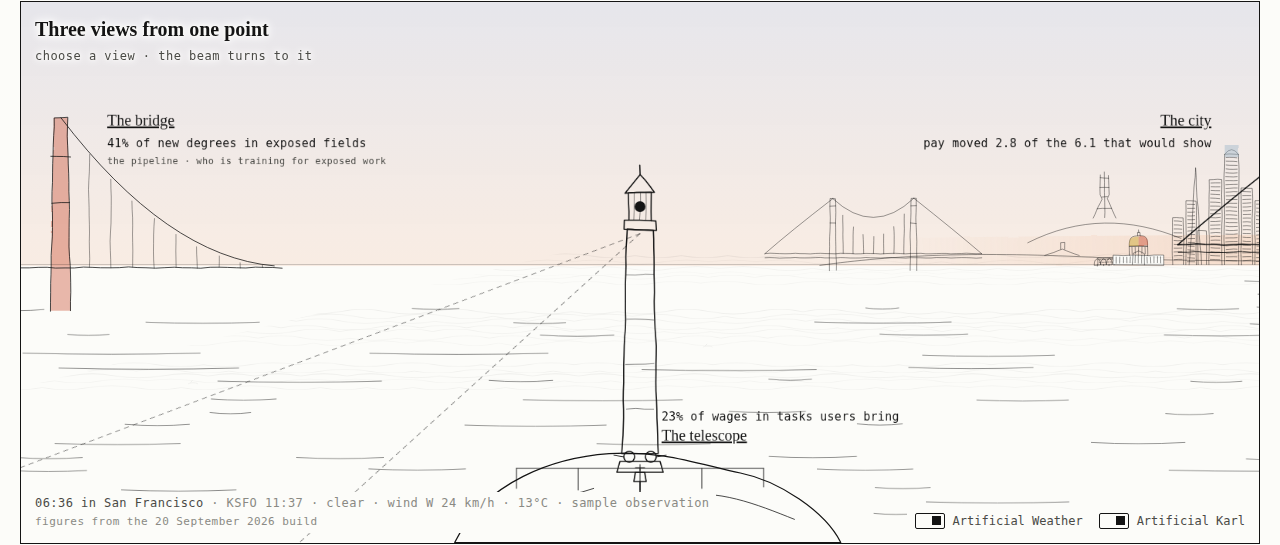
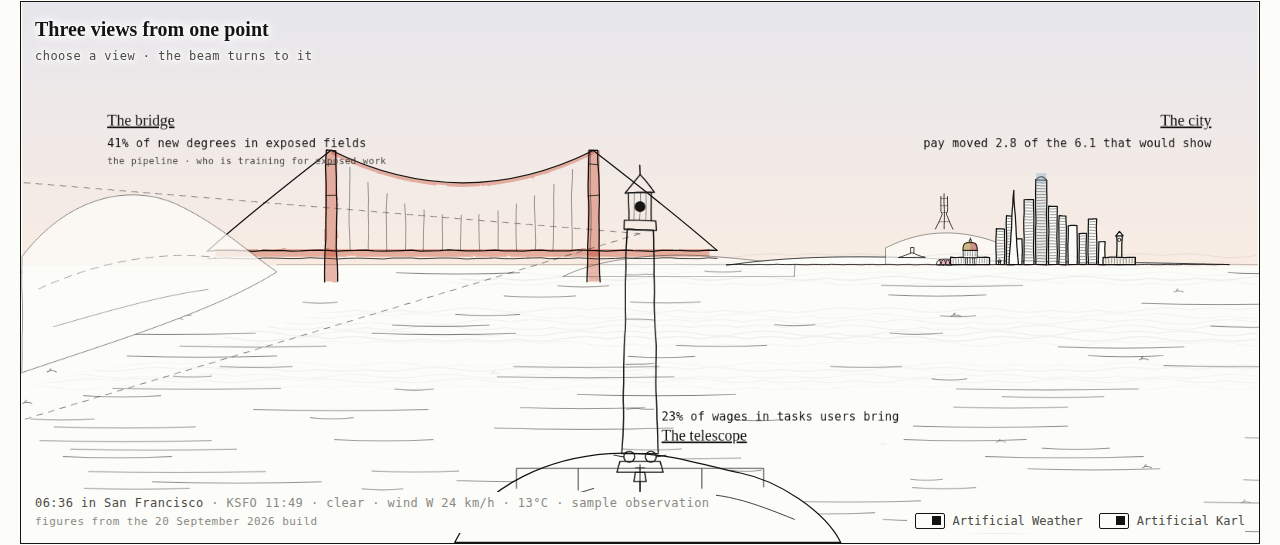
Front page: one scene from the point, turning to a view scales it about that place, the lighthouse fixed at the base, the ink at one weight at any zoom, hills and buildings filled in front of the sky, one Gate, no dawn band

diff --git a/docs/mockup/index.html b/docs/mockup/index.html
@@ -41,12 +41,17 @@ header.top{display:flex;align-items:baseline;justify-content:space-between;gap:1
 /* Each layer is its own drawing surface, so the line work with its filters is painted once and only the
    water, the fog and the sky repaint; turning to a view moves the surfaces, which repaints nothing. */
 .stage>svg{position:absolute;inset:0;width:100%;height:100%;overflow:visible;will-change:transform;pointer-events:none}
-.stage>svg.pan{transform-origin:50% 25%;transition:transform 1.4s cubic-bezier(.6,0,.2,1),opacity .8s}
-.stage>svg.fg{transform-origin:50% 100%;transition:transform 1.4s cubic-bezier(.6,0,.2,1)}
+.stage>svg.pan{transition:opacity .8s}
+/* Turning to a view is a scale of the one drawing about that place, on a group inside each surface, so the
+   ink keeps its weight: strokes are set in screen pixels and do not thicken with the zoom. */
+.zoom{transform-box:view-box;transform-origin:0 0;transition:transform 1.4s cubic-bezier(.6,0,.2,1)}
+.scene path,.scene circle,.scene rect{vector-effect:non-scaling-stroke}
+.vig .scene path{vector-effect:none}
 .stage[data-view="valley"]>svg.pan:not(#L-sky){opacity:0}
-.scene{stroke:var(--ink);fill:none;stroke-width:1.6;stroke-linecap:round;stroke-linejoin:round}
-.scene .thin{stroke-width:1}
-.scene .hair{stroke-width:.7;opacity:.75}
+.scene{stroke:var(--ink);fill:none;stroke-width:1.25px;stroke-linecap:round;stroke-linejoin:round}
+.scene .thin{stroke-width:.8px}
+.scene .hair{stroke-width:.55px;opacity:.75}
+.vig .scene{stroke-width:1.6}.vig .scene .thin{stroke-width:1}.vig .scene .hair{stroke-width:.7}
 .scene .solid{fill:var(--ink);stroke:none}
 .scene text{font-family:var(--mono);font-size:12px;fill:var(--ink-2);stroke:none;letter-spacing:.04em}
 .scene .cap{font-family:var(--display);font-size:20px;fill:var(--ink);letter-spacing:0}
@@ -174,7 +179,7 @@ header.top{display:flex;align-items:baseline;justify-content:space-between;gap:1
 .src b{color:var(--ink);font-weight:500}
 .coin .close{margin-top:12px;font-family:var(--mono);font-size:12px;background:transparent;border:1px solid var(--ink);color:var(--ink);padding:5px 12px;cursor:pointer}
 
-@media (prefers-reduced-motion: reduce){.fogline,.cloud,.rain,.water,.crest,.crownblock{animation:none}.stage>svg,.viewer,.beam,.mask-in{transition:none}}
+@media (prefers-reduced-motion: reduce){.fogline,.cloud,.rain,.water,.crest,.crownblock{animation:none}.stage>svg,.zoom,.viewer,.beam,.mask-in{transition:none}}
 @media (max-width:820px){
   /* On a phone the drawing is a picture and the figures beneath it are the way in: the labels in the
      drawing go, the filters go, and the three views become three cards to tap. */
@@ -195,7 +200,7 @@ header.top{display:flex;align-items:baseline;justify-content:space-between;gap:1
 
   <div class="frame">
   <div class="stage" id="stage" data-view="home" data-aw="on" data-ak="on">
-    <svg class="pan" id="L-sky" viewBox="0 0 1600 700" aria-hidden="true" style="transform:translateX(-100%) scale(1)">
+    <svg class="pan" id="L-sky" viewBox="0 0 1600 700" aria-hidden="true">
       <defs>
         <filter id="wc" x="-10%" y="-10%" width="120%" height="120%">
           <feTurbulence type="fractalNoise" baseFrequency="0.06" numOctaves="2" seed="3" result="n"/>
@@ -204,22 +209,20 @@ header.top{display:flex;align-items:baseline;justify-content:space-between;gap:1
         </filter>
         <filter id="glow" x="-100%" y="-100%" width="300%" height="300%"><feGaussianBlur stdDeviation="6"/></filter>
         <linearGradient id="skygrad" x1="0" y1="0" x2="0" y2="1"><stop id="sky-top" offset="0" stop-color="#BFD3E6" stop-opacity="0"/><stop id="sky-low" offset="1" stop-color="#F2B48C" stop-opacity="0"/></linearGradient>
-        <mask id="fogmask"><rect x="0" y="0" width="4800" height="700" fill="white"/><polygon id="cone" points="0,0" fill="black"/></mask>
-        <linearGradient id="dawngrad" x1="0" y1="0" x2="1" y2="0"><stop offset="0" stop-color="#F2B48C" stop-opacity="0"/><stop id="dawn-mid" offset=".5" stop-color="#F2B48C"/><stop offset="1" stop-color="#F2B48C" stop-opacity="0"/></linearGradient>
-        <mask id="binoc-pan"><rect x="0" y="0" width="4800" height="700" fill="black"/><circle cx="2300" cy="290" r="210" fill="white"/><circle cx="2500" cy="290" r="210" fill="white"/></mask>
+        <mask id="fogmask"><rect x="0" y="0" width="1600" height="700" fill="white"/><polygon id="cone" points="0,0" fill="black"/></mask>
         <mask id="binoc"><rect x="0" y="0" width="1600" height="700" fill="black"/><circle cx="700" cy="290" r="210" fill="white"/><circle cx="900" cy="290" r="210" fill="white"/></mask>
       </defs>
-      <g id="skyall"><rect class="skywash" x="0" y="0" width="4800" height="342" fill="url(#skygrad)"/>
-      <g id="sky" class="scene sky thin"></g></g>
+      <g class="zoom"><g id="skyall"><rect class="skywash" x="0" y="0" width="1600" height="342" fill="url(#skygrad)"/>
+      <g id="sky" class="scene sky thin"></g></g></g>
     </svg>
-    <!-- ================= the panorama: bridge | point | city, painted once ================= -->
-    <svg class="pan" id="L-static" viewBox="0 0 1600 700" aria-hidden="true" style="transform:translateX(-100%) scale(1)"><g class="scene"><g id="washes"></g><g id="far"></g></g></svg>
-    <svg class="pan" id="L-lights" viewBox="0 0 1600 700" aria-hidden="true" style="transform:translateX(-100%) scale(1)"><g id="lights" class="scene"></g></svg>
-    <svg class="pan" id="L-water" viewBox="0 0 1600 700" aria-hidden="true" style="transform:translateX(-100%) scale(1)"><g class="scene"><g id="water" class="hair"></g><g id="fog" class="fog" mask="url(#fogmask)"></g></g></svg>
+    <!-- ================= the one scene from the point, painted once; the colour lies over the ink ================= -->
+    <svg class="pan" id="L-static" viewBox="0 0 1600 700" aria-hidden="true"><g class="zoom scene"><g id="far"></g><g id="washes"></g></g></svg>
+    <svg class="pan" id="L-lights" viewBox="0 0 1600 700" aria-hidden="true"><g class="zoom"><g id="lights" class="scene"></g></g></svg>
+    <svg class="pan" id="L-water" viewBox="0 0 1600 700" aria-hidden="true"><g class="zoom scene"><g id="water" class="hair"></g><g id="fog" class="fog" mask="url(#fogmask)"></g></g></svg>
     <!-- foreground: the point, the lighthouse, the railing, the viewer at rest -->
     <svg id="L-life" viewBox="0 0 1600 700" aria-hidden="true"><g id="life" class="life scene"></g></svg>
     <svg class="fg" id="L-fg" viewBox="0 0 1600 700" role="group" aria-label="An ink drawing of a lighthouse on a headland. Turn to the city or the bridge, or raise the coin telescope to look at the valley.">
-      <g id="fg" class="scene">
+      <g class="zoom" id="fgzoom"><g id="fg" class="scene">
         <path d="M560 700 C 600 620, 690 590, 760 585 C 830 580, 880 600, 930 610 C 980 620, 1040 660, 1060 700 Z" style="fill:var(--paper)"/>
         <path d="M600 660 C 650 640, 700 645, 740 630 M850 640 C 900 630, 950 650, 1000 670" class="thin"/>
         <g class="beam" id="beam" style="--bx:800px;--by:300px"><path d="M800 300 L 3200 -156 M800 300 L 3200 756" class="hair" stroke-dasharray="6 6"/></g>
@@ -244,7 +247,7 @@ header.top{display:flex;align-items:baseline;justify-content:space-between;gap:1
           <text x="110" y="188" class="mark" id="mark-bridge"></text>
           <g class="detail"><text x="110" y="210">the pipeline · who is training for exposed work</text></g>
         </g>
-      </g>
+      </g></g>
     </svg>
 
     <!-- ================= the valley, through the viewer ================= -->
@@ -317,8 +320,8 @@ header.top{display:flex;align-items:baseline;justify-content:space-between;gap:1
   const NS = "http://www.w3.org/2000/svg";
   const el = (tag, attrs={}, parent) => { const n = document.createElementNS(NS, tag); for (const k in attrs) n.setAttribute(k, attrs[k]); if (parent) parent.appendChild(n); return n; };
   function rng(seed){ let s = seed; return () => (s = (s * 16807) % 2147483647) / 2147483647; }
-  const W = 4800, HOME = 1600;            // panorama width; the point sits in the middle third
-  const CH = 780, HYD = 1150;             // in the city third: City Hall's x, and the hydrant's on the shore
+  const W = 1600;                         // the frame is the scene: the view from the point
+  const CH = 780, HYD = 870;              // in the city's own units: City Hall's x, and the hydrant's on the shore
 
   /* ---------- line work ---------- */
   function water(g, x0, x1, y0, y1, seed, dens){
@@ -357,7 +360,7 @@ header.top{display:flex;align-items:baseline;justify-content:space-between;gap:1
     el("path", {d:`M${x2} ${deckY-towerH} Q ${x2+100} ${deckY-towerH*0.4} ${x2+160} ${deckY}`}, g);
     for (let x=x1+24; x<x2; x+=24){ const t=(x-x1)/(x2-x1); const yc = deckY-towerH + sag*(1-(2*t-1)**2); el("path", {d:`M${x} ${yc} L ${x} ${deckY}`, class:"hair"}, g); }
   }
-  function box(g, x, y, w, h, win){ el("path", {d:`M${x} ${y+h} L ${x} ${y} L ${x+w} ${y} L ${x+w} ${y+h}`}, g); if (win) for (let yy=y+8; yy<y+h-4; yy+=9) el("path", {d:`M${x+4} ${yy} L ${x+w-4} ${yy}`, class:"hair"}, g); }
+  function box(g, x, y, w, h, win){ el("path", {d:`M${x} ${y+h} L ${x} ${y} L ${x+w} ${y} L ${x+w} ${y+h} Z`, style:"fill:var(--paper)"}, g); if (win) for (let yy=y+8; yy<y+h-4; yy+=9) el("path", {d:`M${x+4} ${yy} L ${x+w-4} ${yy}`, class:"hair"}, g); }
   function blob(g, x, y, w, h, color, seed){ const r = rng(seed); let d = `M${x} ${y+h/2}`; const n=7; for (let i=1;i<=n;i++){ const a = i/n*2*Math.PI; d += ` Q ${x+w/2+Math.cos(a-0.4)*w*0.6*(0.8+r()*0.4)} ${y+h/2+Math.sin(a-0.4)*h*0.6*(0.8+r()*0.4)} ${x+w/2+Math.cos(a)*w/2} ${y+h/2+Math.sin(a)*h/2}`; } return el("path", {d, class:"wc", style:`fill:${color}`}, g); }
   function tint(g, d, color, seed=1){ return el("path", {d, class:"wc", style:`fill:${color}`}, g); }
   function tintRect(g, x, y, w, h, color){ return tint(g, `M${x} ${y} h ${w} v ${h} h ${-w} Z`, color); }
@@ -368,9 +371,9 @@ header.top{display:flex;align-items:baseline;justify-content:space-between;gap:1
     el("path", {d:`M ${x-60} ${gy} L ${x-60} ${gy-22} L ${x+60} ${gy-22} L ${x+60} ${gy} Z`, style:"fill:var(--paper)"}, g);
     for (let c=x-52; c<=x+52; c+=8) if (Math.abs(c-x) > 16) el("path", {d:`M${c} ${gy-4} L ${c} ${gy-18}`, class:"hair"}, g);
     el("path", {d:`M ${x-14} ${gy} L ${x-14} ${gy-26} L ${x} ${gy-32} L ${x+14} ${gy-26} L ${x+14} ${gy} M ${x-8} ${gy-4} L ${x-8} ${gy-22} M ${x} ${gy-4} L ${x} ${gy-24} M ${x+8} ${gy-4} L ${x+8} ${gy-22}`, class:"thin"}, g);
-    el("path", {d:`M ${x-22} ${gy-22} L ${x-22} ${gy-44} L ${x+22} ${gy-44} L ${x+22} ${gy-22}`, class:"thin"}, g);
+    el("path", {d:`M ${x-22} ${gy-22} L ${x-22} ${gy-44} L ${x+22} ${gy-44} L ${x+22} ${gy-22} Z`, class:"thin", style:"fill:var(--paper)"}, g);
     for (let c=x-16; c<=x+16; c+=8) el("path", {d:`M${c} ${gy-26} L ${c} ${gy-41}`, class:"hair"}, g);
-    el("path", {d:domePath(x, gy-44, 44, 24)}, g);
+    el("path", {d:domePath(x, gy-44, 44, 24), style:"fill:var(--paper)"}, g);
     el("path", {d:`M ${x-3} ${gy-68} L ${x-3} ${gy-76} L ${x+3} ${gy-76} L ${x+3} ${gy-68} M ${x} ${gy-76} L ${x} ${gy-82}`, class:"thin"}, g);
   }
   function dome(g, x, baseY, w, cls){ el("path", {d:`M ${x-w/2} ${baseY} L ${x-w/2} ${baseY-20} L ${x+w/2} ${baseY-20} L ${x+w/2} ${baseY}`, class:cls}, g); el("path", {d:`M ${x-w*0.33} ${baseY-20} C ${x-w*0.33} ${baseY-20-w*0.6}, ${x+w*0.33} ${baseY-20-w*0.6}, ${x+w*0.33} ${baseY-20} M ${x-4} ${baseY-20-w*0.46} L ${x+4} ${baseY-20-w*0.46} L ${x} ${baseY-20-w*0.62} Z`, class:cls}, g); }
@@ -407,83 +410,82 @@ header.top{display:flex;align-items:baseline;justify-content:space-between;gap:1
     });
   }
 
-  /* ---------- the three thirds ---------- */
+  /* ---------- one scene, from the point ----------
+     The frame is the view from Point Bonita: the Marin headland close on the left, the Gate across the
+     middle distance, the city small on the horizon to the right, the bay below. Turning to a view scales
+     this one drawing about that place, so what you were looking at grows and nothing new arrives. The
+     lighthouse in front is fixed, and shrinks to the base of the frame when the view has turned. */
+  // c is the point of the scene brought to the middle of the frame (800, 300); s is how far the view leans in
+  const ZOOM = { home:{c:[800,300], s:1}, city:{c:[1177,300], s:2.4}, bridge:{c:[570,290], s:2.2}, valley:{c:[800,300], s:1} };
+  const toScreen = (view, x, y) => { const {c, s} = ZOOM[view]; return [800 + s*(x-c[0]), 300 + s*(y-c[1])]; };
+  const toScene  = (view, x, y) => { const {c, s} = ZOOM[view]; return [c[0] + (x-800)/s, c[1] + (y-300)/s]; };
   const far = $("#far"), washes = $("#washes"), waterG = $("#water"), fogG = $("#fog");
-  el("path", {d:`M 0 340 L ${HOME*2+30} 340`, class:"hair"}, waterG);   // the horizon, up to where the city stands on it
+
+  // the bay: the horizon from the headland to the city, and the water below it
+  el("path", {d:`M 330 340 L ${W} 340`, class:"hair"}, waterG);
   const waterA = el("g", {class:"water"}, waterG), waterB = el("g", {class:"water b"}, waterG), waterC = el("g", {class:"water c"}, waterG);
-  water(waterA, 0, W, 400, 690, 3, 58); water(waterB, 0, W, 416, 690, 4, 58); water(waterC, 0, W, 432, 690, 8, 58);
-  // crests: short marks that surface and go, out of step with each other
-  (function crests(){ const r = rng(19); for (let i=0;i<14;i++){ const x = r()*W, y = 380 + r()*300; const c = el("path", {d:`M${x} ${y} q 6 -3 12 0 M${x+3} ${y-2} l 2 -2`, class:"crest thin"}, waterG); c.style.animationDelay = (-r()*4).toFixed(2) + "s"; c.style.animationDuration = (3 + r()*3).toFixed(2) + "s"; } })();
+  water(waterA, 0, W, 352, 690, 3, 40); water(waterB, 0, W, 366, 690, 4, 40); water(waterC, 0, W, 380, 690, 8, 40);
+  (function crests(){ const r = rng(19); for (let i=0;i<12;i++){ const x = r()*W, y = 360 + r()*320; const c = el("path", {d:`M${x} ${y} q 6 -3 12 0 M${x+3} ${y-2} l 2 -2`, class:"crest thin"}, waterG); c.style.animationDelay = (-r()*4).toFixed(2) + "s"; c.style.animationDuration = (3 + r()*3).toFixed(2) + "s"; } })();
+  // the Marin headland, near, drawn over the water so the bay ends at its foot; the road out to the point on it
+  const headland = el("g", {}, waterG);
+  el("path", {d:"M 0 480 L 0 330 C 60 250, 140 235, 200 262 C 260 290, 300 330, 330 350 C 250 400, 120 440, 0 480 Z", style:"fill:var(--paper)"}, headland);
+  el("path", {d:"M 20 372 C 90 340, 170 322, 250 330", class:"hair", "stroke-dasharray":"8 6"}, headland);
+  el("path", {d:"M 40 420 C 110 400, 180 380, 240 372", class:"hair"}, headland);
   fog(fogG, [[330, 5, 6],[400, 6, 7],[470, 5, 5]], 11);
 
-  // left third: the bridge, looking back along the headlands (x 0..1600)
-  (function bridge(g, ox, baseY){
-    el("path", {d:`M ${ox} ${baseY+80} C ${ox+120} ${baseY-40}, ${ox+260} ${baseY-90}, ${ox+420} ${baseY-60} C ${ox+520} ${baseY-40}, ${ox+600} ${baseY+20}, ${ox+700} ${baseY+140}`}, g);
-    el("path", {d:`M ${ox+30} ${baseY+60} C ${ox+140} ${baseY+10}, ${ox+300} ${baseY}, ${ox+470} ${baseY+40} C ${ox+560} ${baseY+60}, ${ox+620} ${baseY+110}, ${ox+660} ${baseY+150}`, class:"hair", "stroke-dasharray":"8 6"}, g);
-    suspension(g, ox+620, ox+1000, baseY-20, 230, 150);
-    tintRect(washes, ox+460, baseY-22, 700, 12, "var(--orange)");            // the deck
-    tintRect(washes, ox+612, baseY-250, 16, 290, "var(--orange)");            // the towers
-    tintRect(washes, ox+992, baseY-250, 16, 290, "var(--orange)");
-    tint(washes, `M ${ox+620} ${baseY-250} Q ${ox+810} ${baseY-100} ${ox+1000} ${baseY-250} l 0 5 Q ${ox+810} ${baseY-95} ${ox+620} ${baseY-245} Z`, "var(--orange)");  // the cable
-    el("path", {d:`M ${ox+1000} ${baseY-40} C ${ox+1150} ${baseY-90}, ${ox+1350} ${baseY-80}, ${ox+1600} ${baseY-30}`, class:"thin"}, g);
-    for (const [x,y,s] of [[ox+1180, baseY+90, 1],[ox+1000, baseY+160, 1.3],[ox+880, baseY+220, .8]]){ el("path", {d:`M${x} ${y} l ${-30*s} 0 l ${6*s} ${10*s} l ${48*s} 0 l ${6*s} ${-10*s} z M${x-14*s} ${y} l 0 ${-10*s} l ${22*s} 0 l 0 ${10*s} M${x-4*s} ${y-10*s} l 0 ${-9*s}`, class:"thin"}, g); }
-  })(far, 0, 330);
+  // the Presidio's low shore at the Gate's south end, running on to the city
+  el("path", {d:"M 700 356 C 740 334, 820 322, 900 330 C 940 334, 980 338, 1000 340 L 1000 356 Z", style:"fill:var(--paper)", class:"hair"}, far);
+  // the Gate, across the middle distance
+  suspension(far, 400, 740, 322, 130, 85);
+  tintRect(washes, 250, 320, 640, 10, "var(--orange)");                                              // the deck
+  tintRect(washes, 392, 192, 16, 170, "var(--orange)"); tintRect(washes, 732, 192, 16, 170, "var(--orange)");   // the towers
+  tint(washes, "M 400 192 Q 570 277 740 192 l 0 5 Q 570 282 400 197 Z", "var(--orange)");            // the cable
 
-  // middle third: the far city as seen from the point (x 1600..3200), faint
-  (function farCity(g, ox){
-    const s = el("g", {transform:`translate(${ox+1020},207) scale(.55)`, class:"thin"}, g);
-    skyline(s, 250, false); s.querySelectorAll("path").forEach(p=>{ p.classList.remove("hair"); p.classList.add("thin"); });
-    // the Gate's near tower and the fall of its cable, at the left edge of the point's view
-    el("path", {d:`M ${ox+40} 400 L ${ox+44} 150 L ${ox+62} 150 L ${ox+66} 400 M ${ox+40} 200 L ${ox+66} 200 M ${ox+42} 260 L ${ox+64} 260`, class:"thin"}, g);
-    el("path", {d:`M ${ox+53} 150 Q ${ox+190} 330 ${ox+330} 342 M ${ox+0} 344 L ${ox+340} 344`, class:"thin"}, g);
-    for (let x=ox+90; x<ox+320; x+=28){ const t=(x-ox-53)/277; el("path", {d:`M${x} ${150 + 192*(1-(1-t)**2)} L ${x} 344`, class:"hair"}, g); }
-    tint(washes, `M ${ox+44} 150 L ${ox+62} 150 L ${ox+66} 400 L ${ox+40} 400 Z`, "var(--orange)");
-  })(far, HOME);
+  // the city, small on the horizon, drawn once at the size it has from here; turning to it scales this
+  const CITY = { x:900, y:340, k:0.42 };
+  const cityTransform = `translate(${CITY.x},${CITY.y}) scale(${CITY.k})`;
+  const cityG = el("g", {transform:cityTransform}, far), cityW = el("g", {transform:cityTransform}, washes);
 
-  // right third: the city, looking east (x 3200..4800)
-  function skyline(g, baseY, colour, ox=0){
-    el("path", {d:`M ${ox+30} ${baseY-6} C ${ox+200} ${baseY-30}, ${ox+400} ${baseY-40}, ${ox+700} ${baseY-24} C ${ox+900} ${baseY-14}, ${ox+1100} ${baseY-20}, ${ox+1580} ${baseY-8}`, class:"thin"}, g);
-    el("path", {d:`M ${ox+520} ${baseY-60} C ${ox+640} ${baseY-120}, ${ox+760} ${baseY-118}, ${ox+880} ${baseY-70}`, class:"hair"}, g);
+  function skyline(g, w, baseY, colour, ox=0){
+    // the hills behind the city, filled, so the sky stays behind them
+    el("path", {d:`M ${ox+30} ${baseY-6} C ${ox+200} ${baseY-30}, ${ox+400} ${baseY-40}, ${ox+700} ${baseY-24} C ${ox+900} ${baseY-14}, ${ox+1100} ${baseY-20}, ${ox+1580} ${baseY-8} L ${ox+30} ${baseY-8} Z`, class:"thin", style:"fill:var(--paper)"}, g);
+    el("path", {d:`M ${ox+520} ${baseY-60} C ${ox+640} ${baseY-120}, ${ox+760} ${baseY-118}, ${ox+880} ${baseY-70} L ${ox+880} ${baseY-8} L ${ox+520} ${baseY-8} Z`, class:"hair", style:"fill:var(--paper)"}, g);
     const sx = ox+700, sy = baseY-118;
     // Sutro: three masts, the outer pair upright at the top, pinched to a waist, splayed to the feet, tied by struts
     const H = 100;
     el("path", {d:`M${sx-10} ${sy-H} L ${sx-10} ${sy-H*0.55} L ${sx-6} ${sy-H*0.45} L ${sx-27} ${sy} M${sx} ${sy-H-8} L ${sx} ${sy} M${sx+10} ${sy-H} L ${sx+10} ${sy-H*0.55} L ${sx+6} ${sy-H*0.45} L ${sx+27} ${sy}`, class:"thin"}, g);
     for (const [f, hw] of [[0.94, 10], [0.72, 10], [0.5, 6], [0.22, 17]]) el("path", {d:`M${sx-hw} ${sy-H*f} L ${sx+hw} ${sy-H*f}`, class:"hair"}, g);
-    suspension(g, ox+60, ox+250, baseY-34, 130, 90);
-    el("path", {d:`M ${ox+560} ${baseY-30} L ${ox+600} ${baseY-44} L ${ox+640} ${baseY-30} M ${ox+596} ${baseY-44} L ${ox+596} ${baseY-60} L ${ox+606} ${baseY-60} L ${ox+606} ${baseY-44}`, class:"thin"}, g);
+    el("path", {d:`M ${ox+560} ${baseY-30} L ${ox+600} ${baseY-44} L ${ox+640} ${baseY-30} Z M ${ox+596} ${baseY-44} L ${ox+596} ${baseY-60} L ${ox+606} ${baseY-60} L ${ox+606} ${baseY-44}`, class:"thin", style:"fill:var(--paper)"}, g);
     const towers = [[860,110,26,1],[892,150,24,1],[920,80,20,0],[946,200,30,1],[982,260,34,1],[1022,180,26,1],[1054,150,22,1],[1082,120,28,0],[1116,96,22,1],[1144,140,26,1],[1176,70,20,0]];
-    for (const [x,h,w,win] of towers) box(g, ox+x, baseY-h-8, w, h, win);
-    el("path", {d:`M ${ox+900} ${baseY-8} L ${ox+914} ${baseY-236} L ${ox+928} ${baseY-8}`}, g);
+    for (const [x,h,w_,win] of towers) box(g, ox+x, baseY-h-8, w_, h, win);
+    el("path", {d:`M ${ox+900} ${baseY-8} L ${ox+914} ${baseY-236} L ${ox+928} ${baseY-8} Z`, style:"fill:var(--paper)"}, g);
     el("path", {d:`M ${ox+982} ${baseY-268} Q ${ox+999} ${baseY-290} ${ox+1016} ${baseY-268}`}, g);
-    // City Hall, and Hayes Valley just west of it: Patricia's Green with its trees, and the red house over the green
-    // City Hall and Hayes Valley sit west of the towers, under Sutro, on the shore's register: the dome, the green with its trees, and the red house over the green
+    // City Hall and Hayes Valley west of the towers, under Sutro: the house a little behind, the trees in front of it
     const hv = ox+CH, gy = baseY-8;
-    // the house over the green: two storeys, six windows across, a little behind City Hall, with the trees in front of it
-    el("path", {d:`M ${hv-96} ${gy} L ${hv-96} ${gy-16} L ${hv-56} ${gy-16} L ${hv-56} ${gy}`, class:"thin"}, g);
+    el("path", {d:`M ${hv-96} ${gy} L ${hv-96} ${gy-16} L ${hv-56} ${gy-16} L ${hv-56} ${gy} Z`, class:"thin", style:"fill:var(--paper)"}, g);
     for (let r=0; r<2; r++) for (let c=0; c<6; c++) el("path", {d:`M${hv-93+c*6.4} ${gy-12+r*6.5} l 3.4 0`, class:"hair"}, g);
     cityhall(g, hv, gy);
-    for (const x of [hv-104, hv-90, hv-76]) el("path", {d:`M${x} ${gy} q 0 -12 7 -14 q 7 2 7 14 z M${x+7} ${gy} l 0 3`, class:"thin"}, g);
-    // the hydrant on the Embarcadero, past the Ferry Building, where the robotaxi meets it
+    for (const x of [hv-104, hv-90, hv-76]) el("path", {d:`M${x} ${gy} q 0 -12 7 -14 q 7 2 7 14 z M${x+7} ${gy} l 0 3`, class:"thin", style:"fill:var(--paper)"}, g);
+    // the hydrant on the Embarcadero, in front of the towers, where the robotaxi meets it
     el("path", {d:`M ${ox+HYD-3} ${gy} L ${ox+HYD-3} ${gy-14} Q ${ox+HYD} ${gy-18} ${ox+HYD+3} ${gy-14} L ${ox+HYD+3} ${gy} M ${ox+HYD-6} ${gy-9} L ${ox+HYD+6} ${gy-9} M ${ox+HYD-3} ${gy-5} L ${ox+HYD+3} ${gy-5}`, class:"thin"}, g);
     // Ferry Building on the waterfront
-    el("path", {d:`M ${ox+1190} ${baseY-8} L ${ox+1190} ${baseY-30} L ${ox+1290} ${baseY-30} L ${ox+1290} ${baseY-8}`}, g);
+    el("path", {d:`M ${ox+1190} ${baseY-8} L ${ox+1190} ${baseY-30} L ${ox+1290} ${baseY-30} L ${ox+1290} ${baseY-8} Z`, style:"fill:var(--paper)"}, g);
     for (let x=ox+1198; x<ox+1290; x+=9) el("path", {d:`M${x} ${baseY-26} L ${x} ${baseY-12}`, class:"hair"}, g);
-    el("path", {d:`M ${ox+1232} ${baseY-30} L ${ox+1232} ${baseY-96} L ${ox+1248} ${baseY-96} L ${ox+1248} ${baseY-30} M ${ox+1229} ${baseY-96} L ${ox+1251} ${baseY-96} L ${ox+1240} ${baseY-110} Z`}, g);
+    el("path", {d:`M ${ox+1232} ${baseY-30} L ${ox+1232} ${baseY-96} L ${ox+1248} ${baseY-96} L ${ox+1248} ${baseY-30} Z M ${ox+1229} ${baseY-96} L ${ox+1251} ${baseY-96} L ${ox+1240} ${baseY-110} Z`, style:"fill:var(--paper)"}, g);
     el("circle", {cx:ox+1240, cy:baseY-84, r:5, class:"thin"}, g);
     if (colour){
-      tint(washes, domePath(hv, gy-44, 44, 24), "var(--glass)").style.opacity = ".3";                               // the dome, grey-blue
-      tintRect(washes, hv-95, gy-15, 38, 15, "var(--rose)");                                                        // the house over the green
-      tintRect(washes, ox+1191, baseY-29, 98, 21, "var(--cream)");                                                                // the Ferry Building
-      tintRect(washes, ox+1233, baseY-95, 14, 66, "var(--cream)");
-      tintRect(washes, ox+983, baseY-267, 32, 259, "var(--glass)").style.opacity = ".12";                                          // the tallest tower
+      tint(w, domePath(hv, gy-44, 44, 24), "var(--glass)").style.opacity = ".3";                               // the dome, grey-blue
+      tintRect(w, hv-95, gy-15, 38, 15, "var(--rose)");                                                        // the house over the green
+      tintRect(w, ox+1191, baseY-29, 98, 21, "var(--cream)");                                                  // the Ferry Building
+      tintRect(w, ox+1233, baseY-95, 14, 66, "var(--cream)");
+      tintRect(w, ox+983, baseY-267, 32, 259, "var(--glass)").style.opacity = ".12";                            // the tallest tower
     }
   }
-  skyline(far, 348, true, HOME*2);
-  water(waterA, HOME*2, W, 362, 690, 5, 54); water(waterB, HOME*2, W, 378, 690, 6, 54); water(waterC, HOME*2, W, 394, 690, 9, 54);
+  skyline(cityG, cityW, 8, true, 0);
 
-  // the lighthouses: one in the foreground for the point, and the same tower drawn at the edges of the panorama
+  // the lighthouse, in front, on the point
   lighthouse($("#lh"), 800, 585, 330);
-  wobble(far, 1); wobble($("#lh"), 2);
+  wobble(far, 1); wobble($("#lh"), 2); wobble(headland, 6);
 
   /* ---------- the city after dark ----------
      The crown of the tallest tower carries its slow picture of light, drawn
@@ -507,20 +509,15 @@ header.top{display:flex;align-items:baseline;justify-content:space-between;gap:1
   }
   function drawLights(d){
     LIGHTS.innerHTML = "";
-    const ox = HOME*2, baseY = 400, [ca, cb] = nightPair(d);
+    const L = el("g", {transform:cityTransform}, LIGHTS), ox = 0, baseY = 8, [ca, cb] = nightPair(d);
     // the dome, split by the pair
     const hv = ox+CH, gy = baseY-8;
-    tint(LIGHTS, domeHalf(hv, gy-44, 44, 24, -1), ca).classList.add("nightlight");
-    tint(LIGHTS, domeHalf(hv, gy-44, 44, 24, 1), cb).classList.add("nightlight");
+    tint(L, domeHalf(hv, gy-44, 44, 24, -1), ca).classList.add("nightlight");
+    tint(L, domeHalf(hv, gy-44, 44, 24, 1), cb).classList.add("nightlight");
     // the crown: a soft wash and a grid of blocks that breathe out of step
-    tintRect(LIGHTS, ox+983, baseY-290, 32, 30, "#9FB7C9").classList.add("nightlight");
-    const grid = el("g", {class:"nightlight"}, LIGHTS); const r = rng(59);
+    tintRect(L, ox+983, baseY-290, 32, 30, "#9FB7C9").classList.add("nightlight");
+    const grid = el("g", {class:"nightlight"}, L); const r = rng(59);
     for (let i=0;i<4;i++) for (let j=0;j<5;j++){ const b = el("rect", {x:ox+986+i*7, y:baseY-286+j*6, width:5, height:4, class:"crownblock", style:`fill:#9FB7C9;stroke:none`}, grid); b.style.animationDelay = (-r()*9).toFixed(1) + "s"; }
-    // the same lights, small, in the far city seen from the point
-    const fx = HOME+1020+CH*.55, fb = 207+(250-8-44)*.55;                                             // the far dome, drawn at .55 on a base of 250
-    tint(LIGHTS, domeHalf(fx, fb, 44*.55, 24*.55, -1), ca).classList.add("nightlight");
-    tint(LIGHTS, domeHalf(fx, fb, 44*.55, 24*.55, 1), cb).classList.add("nightlight");
-    tintRect(LIGHTS, HOME+1020+983*.55, 207+(250-290)*.55, 18, 16, "#9FB7C9").classList.add("nightlight");   // the far crown
   }
   drawLights(new Date());
 
@@ -575,8 +572,8 @@ header.top{display:flex;align-items:baseline;justify-content:space-between;gap:1
   function setCone(t){
     const a = {city:[-14, 14], bridge:[166, 194], tele:[70, 110]}[t];
     if (!a){ cone.setAttribute("points", "0,0"); return; }
-    // the lantern, in panorama units, for the view the fog is cut in: at the point, or at the edge of the frame when the view has turned
-    const [ox, oy] = ({ city:[3408, 227], bridge:[1392, 227] })[stage.dataset.view] || [800+HOME, 300], L=1400, p=[[ox,oy]];
+    // the lantern in scene units: at the point, or, once the view has turned and the lighthouse has shrunk to the base, where its lantern falls in the scaled scene
+    const view = stage.dataset.view, [ox, oy] = view === "home" ? [800, 300] : toScene(view, 800, 480), L = 1400/ZOOM[view].s, p=[[ox,oy]];
     for (let d=a[0]; d<=a[1]; d+=4){ const r=d*Math.PI/180; p.push([ox+L*Math.cos(r), oy+L*Math.sin(r)]); }
     cone.setAttribute("points", p.map(q=>q.join(",")).join(" "));
   }
@@ -600,24 +597,24 @@ header.top{display:flex;align-items:baseline;justify-content:space-between;gap:1
   const R = {
     home:  { cap:["Three views from one point", "choose a view · the beam turns to it"],
              title:"Three views from one point", lens:"Every AI tracker asks whether people are using it. This one asks what that use has reached: the people training for exposed work, the pay and jobs behind it, and the money paid for the tasks it touches.",
-             left:null, right:null, pan:-HOME, fgx:0, z:1, tables:[] },
+             left:null, right:null, tables:[] },
     city:  { cap:["The city · what has moved", "pay and jobs by skill group, each tested against its own history · a move counts when it passes the lens"],
              title:"What has moved", lens:"Pay and employment by occupation, folded into 25 named skill groups and tested each year against that group's own year-to-year swing. The lens is set in advance at the size a move would have to reach to stand out from that history, which is why a small reading is still the right reading: this is the instrument that will notice. It changes once a year, with each spring release of the wage tables.",
              f1:["2.8","of 6.1","pay · largest standardised move · 2025 release","Six of 25 skill groups moved beyond two of their own standard errors; the largest sits at 2.8 against a lens of 6.1."],
              f2:["4.4","of 4.0","jobs · employment-weighted skill mix · 2025","The quantity side touched its lens this year. Whether it holds is what the next release answers."],
-             left:["bridge","turn to the bridge"], right:["valley","raise the telescope"], pan:-HOME*2, fgx:-770, z:1.25,
+             left:["bridge","turn to the bridge"], right:["valley","raise the telescope"], 
              tables:["outcomes_pay_series_balanced.csv","outcomes_quantity_series_balanced.csv","outcomes_pay_changes.csv"] },
     bridge:{ cap:["The bridge · the pipeline", "who is training for exposed work · degrees are the channel the counts can see"],
              title:"The pipeline", lens:"Bachelor's degrees awarded in fields whose graduates go on to exposed occupations, with each field scored by where its graduates actually work. This is the channel policy can count and the one that answers slowly, so a shift here is an early sign rather than a result. It changes once a year with the completions file, and the lateral channel, people arriving from other jobs, joins it when the flows matrix is released.",
              f1:["41","% of bachelor's","awarded in fields that lead to exposed jobs · 2024","Up from 40 percent the year before. Fields are scored by where their graduates actually work, not by where the catalogue says they should."],
              f2:["4 to 12","×","lateral arrivals over graduates, by occupation","From the flow account. The lateral matrix itself is the next file to arrive; until then this column carries the education channel only."],
-             left:["valley","raise the telescope"], right:["city","turn to the city"], pan:0, fgx:770, z:1.25,
+             left:["valley","raise the telescope"], right:["city","turn to the city"], 
              tables:["pipeline_completions_by_state.csv","pipeline_enrolment_by_exposure.csv","pipeline_field_exposure_crosswalk.csv","capacity_education_channel.csv"] },
     valley:{ cap:["The telescope · where usage lands", "what people ask the models to do, priced by the tasks it touches · reach in the wage bill"],
              title:"Where usage lands", lens:"What people ask the models to do, mapped through eighteen thousand tasks onto the dollars paid for them, then onto the skills those tasks use. Usage is where a change starts, so this is the view that moves first and most often, and it says nothing yet about pay. It changes with each platform release, every few months, and three platforms are shown side by side because each sees only its own users.",
              f1:["23","% of wages","reach · Anthropic consumer usage · Feb 2026","18 percent in August 2025, 22 in November, 23 in February. Six percent delegated outright."],
              f2:["2.5","×","concentration on complex problem solving","Usage lands on that skill group at two and a half times its weight in pay; physical and psychomotor work at a third."],
-             left:["city","turn to the city"], right:["bridge","turn to the bridge"], pan:-HOME, fgx:0, z:1,
+             left:["city","turn to the city"], right:["bridge","turn to the bridge"], 
              tables:["usage_reach.csv","usage_landing.csv","usage_by_occupation.csv"] },
   };
   // the same figures, as one line each on the drawing
@@ -653,13 +650,14 @@ header.top{display:flex;align-items:baseline;justify-content:space-between;gap:1
     stage.dataset.view = view;
     $("#life").replaceChildren();                                              // whatever was crossing the last view stays there
     hold(); light(null);
-    if (view === "valley"){ $("#life").setAttribute("mask", "url(#binoc)"); $("#skyall").setAttribute("mask", "url(#binoc-pan)"); }
+    if (view === "valley"){ $("#life").setAttribute("mask", "url(#binoc)"); $("#skyall").setAttribute("mask", "url(#binoc)"); }
     else { $("#life").removeAttribute("mask"); $("#skyall").removeAttribute("mask"); }
     const r = R[view];
-    // the surfaces slide and lean in together; a percent of the surface width is a panorama unit over 1600
-    pans.forEach(p => { p.style.transform = `translateX(${(r.pan*r.z/16).toFixed(3)}%) scale(${r.z})`; });
-    const fz = r.z > 1 ? 1.15 : 1;
-    fgSvg.style.transform = `translateX(${(r.fgx*fz/16).toFixed(3)}%) scale(${fz})`;
+    // the one drawing scales about the place turned to; the lighthouse in front shrinks to the base of the frame
+    const {c, s: zs} = ZOOM[view];
+    document.querySelectorAll(".zoom").forEach(g => { if (g.id !== "fgzoom") g.style.transform = `translate(${800 - zs*c[0]}px, ${300 - zs*c[1]}px) scale(${zs})`; });
+    const fs = zs > 1 ? 0.55 : 1;
+    $("#fgzoom").style.transform = `translate(800px, 700px) scale(${fs}) translate(-800px, -700px)`;
     $("#cap-h").textContent = r.cap[0]; $("#cap-p").textContent = r.cap[1];
     $("#r-title").textContent = r.title; $("#r-lens").textContent = r.lens;
     marks();
@@ -785,9 +783,10 @@ header.top{display:flex;align-items:baseline;justify-content:space-between;gap:1
   }
   function moonPhase(d){ const age = ((d.getTime() - Date.UTC(2000,0,6,18,14))/86400e3) % 29.530588; return (age < 0 ? age + 29.530588 : age)/29.530588; }
   // the panorama's headings: the left edge looks a little west of south, the right edge a little north of east
-  function xOfAzimuth(az){ let a = az; if (a > 300) a -= 360; return (250 - a)/230 * W; }
+  // the frame looks from a little north of east round to the south-east: the sun rises over the Gate and the bay
+  function xOfAzimuth(az){ return (az - 50)/110 * W; }
   function yOfAltitude(alt){ return 340 - Math.max(-12, Math.min(70, alt))*4.6; }
-  const HEADING = { home:90, city:45, bridge:180, valley:150 };
+  const HEADING = { home:105, city:125, bridge:100, valley:150 };
 
   const sky = $("#sky");
   // The sky's own colour: the faintest wash, blue by day, warm at the horizon around dawn and dusk, a deep
@@ -835,11 +834,6 @@ header.top{display:flex;align-items:baseline;justify-content:space-between;gap:1
       const x = xOfAzimuth(sun.az), y = yOfAltitude(sun.alt);
       el("path", {d:`M ${x} ${y} m -22 0 a 22 22 0 1 0 44 0 a 22 22 0 1 0 -44 0 M ${x} ${y-34} l 0 -10 M ${x} ${y+34} l 0 10 M ${x-34} ${y} l -10 0 M ${x+34} ${y} l 10 0`, class:"thin sun"}, sky);
       if (key === "clear") tint($("#washes"), `M ${x-24} ${y} a 24 24 0 1 0 48 0 a 24 24 0 1 0 -48 0 Z`, "var(--gold)").classList.add("sunwash");
-    }
-    if (sun.alt > -8 && sun.alt < 8){                                            // dawn or dusk: one warm band on the horizon, where the sun is
-      const x = xOfAzimuth(sun.az); const morning = sun.az < 180;
-      $("#dawn-mid").setAttribute("stop-color", morning ? "#F2B48C" : "#E07A3F");
-      const band = tint($("#washes"), `M ${x-700} 306 Q ${x} 296 ${x+700} 306 L ${x+700} 340 L ${x-700} 340 Z`, "none"); band.style.fill = "url(#dawngrad)"; band.classList.add("dawn");
     }
     // the moon is drawn at its phase and where it is; on a night it has set, the drawing keeps it low over the horizon anyway
     if ((moon.alt > 0 || night) && (night || sun.alt < 4) && w.fog < .9 && !w.band){
@@ -906,15 +900,15 @@ header.top{display:flex;align-items:baseline;justify-content:space-between;gap:1
           splash.style.opacity = 1 - (k-.82)/.18; }
       }, ()=>{ g.remove(); if (splash) splash.remove(); }); },
     robotaxi(){ if (stage.dataset.view !== "city") return EVENTS.gull();
-      const z = R.city.z, vx = x => 800 + z*(x-800), vy = y => 175 + z*(y-175);   // the city leans in about a point a quarter down, so the shore does too
-      // it comes in from the right along the Embarcadero, past the Ferry Building, and meets the hydrant there
-      const g = el("g", {class:"thin"}, life); const S = 1.05*z; const y = vy(340) - 3*S; const hx = vx(HYD), x0 = -80;
+      // the city's own units on screen, and the drawn hydrant's place on the shore; it comes in from the west along the front
+      const k = ZOOM.city.s*CITY.k, [hx, hy] = toScreen("city", CITY.x + HYD*CITY.k, CITY.y);
+      const g = el("g", {class:"thin"}, life); const S = 1.05*k; const y = hy - 3*S; const x0 = -80;
       // a small car with its sensor dome, running the waterfront toward the hydrant by the Ferry Building
       const car = el("g", {transform:`scale(${S})`}, g);
       el("path", {d:"M-16 0 L 16 0 L 16 -8 L 10 -14 L -8 -14 L -16 -8 Z M-10 0 a 3 3 0 1 0 6 0 M4 0 a 3 3 0 1 0 6 0 M-2 -14 L -2 -18 a 4 3 0 1 1 8 0 L 6 -14 M-8 -14 L -6 -8 M 10 -14 L 8 -8", class:"thin"}, car);
       const dome = el("circle", {cx:2, cy:-18, r:1.2, class:"solid"}, car); let d = 0; const spin = setInterval(()=>{ dome.setAttribute("cx", 2 + Math.cos(d+=.6)*3); }, 80);
       // the water, from the drawn hydrant's cap, pouring toward the car
-      const spout = el("g", {class:"thin", transform:`translate(${hx},${vy(340)}) scale(${-z},${z})`}, life); spout.style.opacity = 0;
+      const spout = el("g", {class:"thin", transform:`translate(${hx},${hy}) scale(${-k},${k})`}, life); spout.style.opacity = 0;
       for (let i=0;i<9;i++) el("path", {d:`M0 -17 q ${6 + i*2} ${-14 - i*3} ${14 + i*4} ${-2 + i*2} M${14 + i*4} ${-2 + i*2} l 1 3`}, spout);
       const stop = hx - 20*S;
       tween(6000, k=>{ const x = x0 + Math.min(k*1.12, 1)*(stop-x0); const bump = k > .89 ? Math.sin((k-.89)*70)*2.5 : 0; g.setAttribute("transform", `translate(${x+bump},${y})`); if (k > .89) spout.style.opacity = Math.min(1, (k-.89)*12); },
